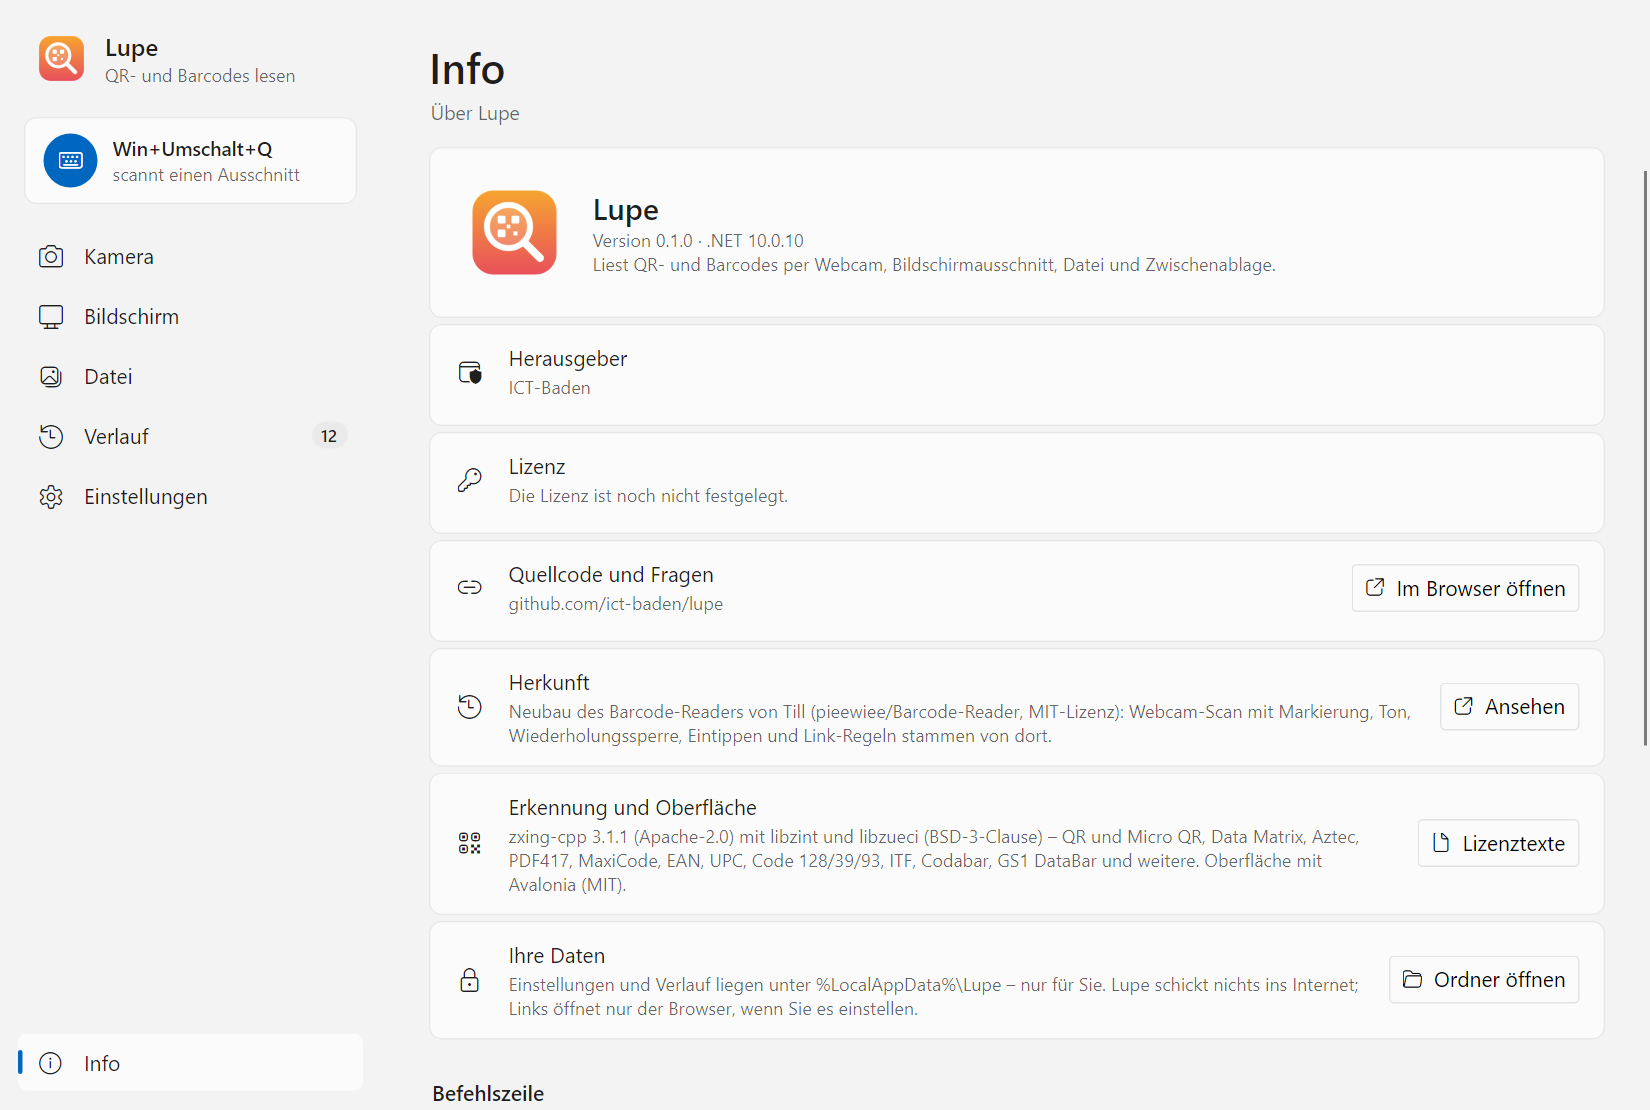
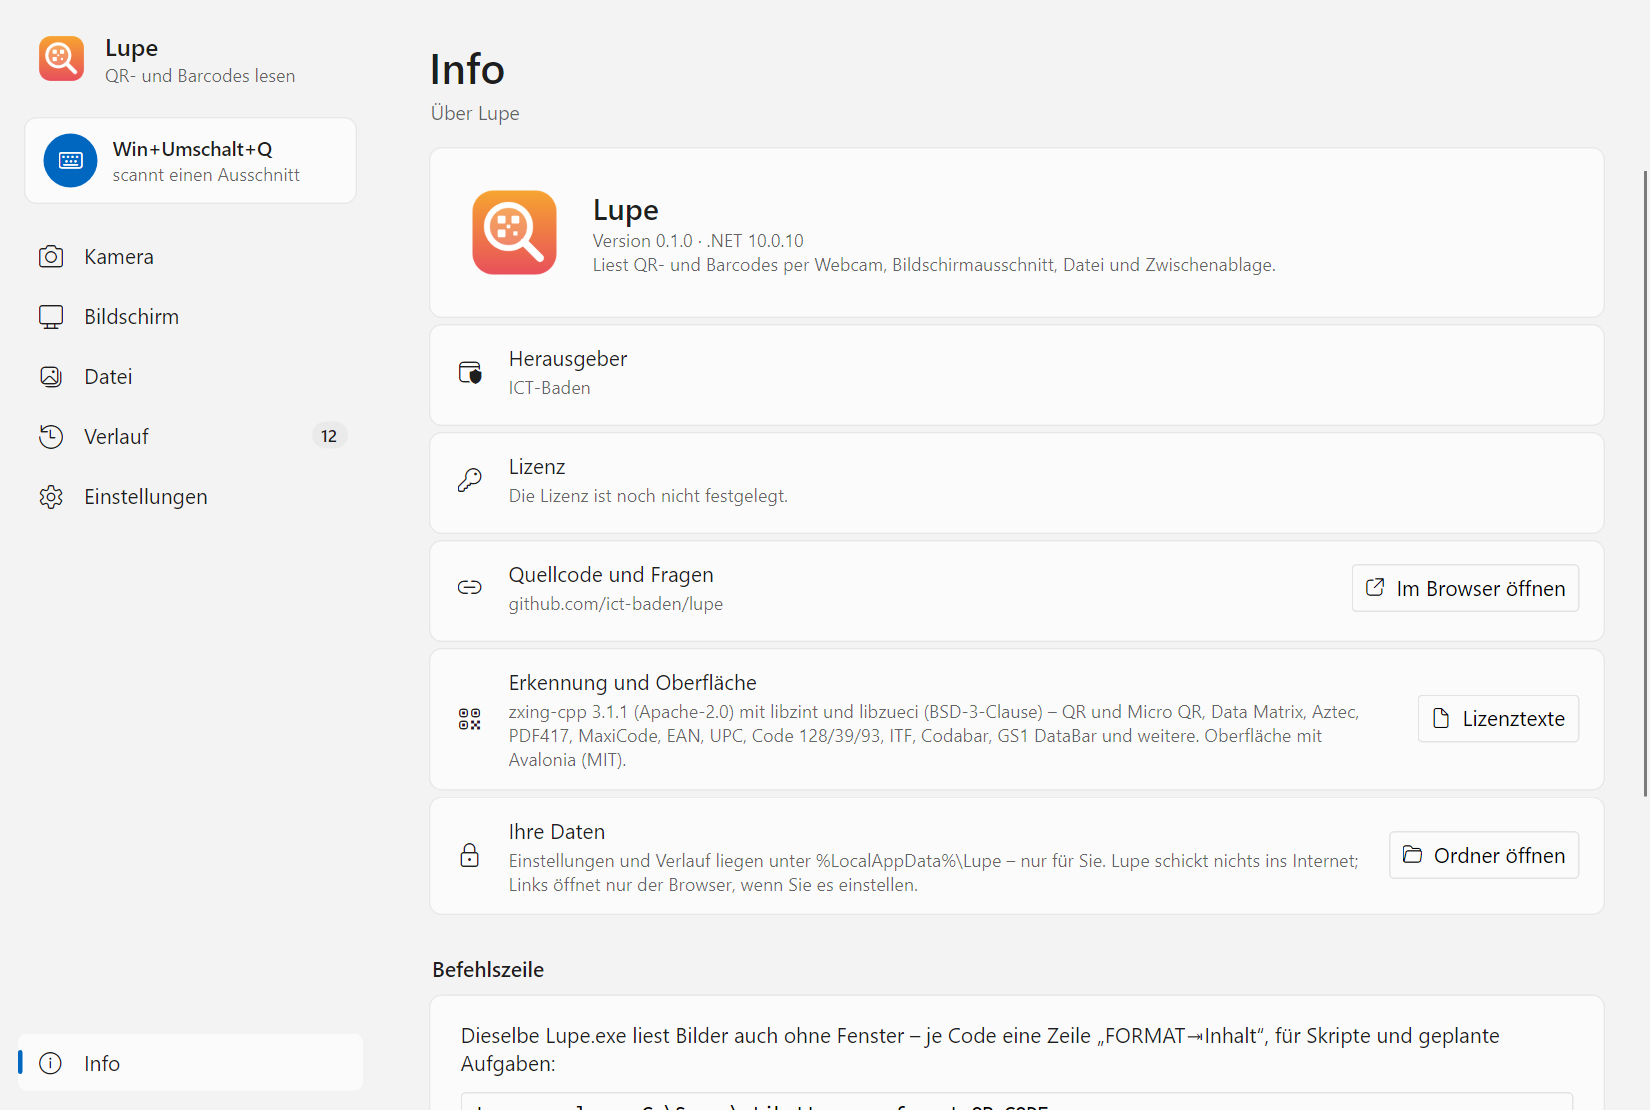
Keine Personennamen in der Oberfläche: Herkunft-Karte entfernt
Info-Seite ohne die Karte „Herkunft“ (samt Link und AppInfo.OriginUrl), die
Demo-Visitenkarte ohne Namen. Screenshots und usage.md angepasst.

Claude-Session: https://claude.ai/code/session_01AbvsB6bkL317KnprbYqPv7

diff --git a/src/Lupe/Demo/DemoData.cs b/src/Lupe/Demo/DemoData.cs
@@ -54,7 +54,7 @@ internal static class DemoData
             E(TimeSpan.FromMinutes(48), ScanSource.Zwischenablage, "QR_CODE", "WIFI:T:WPA;S:Gaeste;P:Willkommen-2026;;"),
             E(TimeSpan.FromMinutes(81), ScanSource.Kamera, "EAN_13", Ean, ResultActions.Kopieren | ResultActions.LinkOeffnen),
             E(TimeSpan.FromHours(3.2), ScanSource.Bildschirm, "AZTEC", "TICKET 7X9-KL2 WAGEN 8 PLATZ 64", ResultActions.Eintippen),
-            E(TimeSpan.FromHours(22), ScanSource.Bildschirm, "QR_CODE", "BEGIN:VCARD\nVERSION:3.0\nN:Muster;Anna\nORG:ICT-Baden\nTEL:+41 56 000 00 00\nEND:VCARD"),
+            E(TimeSpan.FromHours(22), ScanSource.Bildschirm, "QR_CODE", "BEGIN:VCARD\nVERSION:3.0\nORG:ICT-Baden\nTITLE:Empfang\nTEL:+41 56 000 00 00\nEND:VCARD"),
             E(TimeSpan.FromHours(26), ScanSource.Kamera, "PDF_417", "PAKET 1Z999AA10123456784"),
             E(TimeSpan.FromHours(50), ScanSource.Datei, "CODE_39", "INV-2026-0042"),
             E(TimeSpan.FromHours(75), ScanSource.Kamera, "QR_CODE", "https://example.com/termine?id=118", ResultActions.Kopieren | ResultActions.LinkOeffnen),

diff --git a/src/Lupe/UI/Pages/InfoPage.axaml.cs b/src/Lupe/UI/Pages/InfoPage.axaml.cs
@@ -6,7 +6,7 @@ using Lupe.Services;
 
 namespace Lupe.UI.Pages;
 
-/// <summary>Info: Version, Herausgeber, Lizenz (noch offen), Repo, Herkunft vom Barcode-Reader, Erkennung mit Lizenztexten, Daten, Befehlszeile, Tastatur.</summary>
+/// <summary>Info: Version, Herausgeber, Lizenz (noch offen), Repo, Erkennung und Oberfläche mit Lizenztexten, Daten, Befehlszeile, Tastatur.</summary>
 public partial class InfoPage : UserControl, IPage
 {
     private readonly AppState _state;
@@ -66,8 +66,6 @@ public partial class InfoPage : UserControl, IPage
     {
         if (ThirdPartyNotices.Open() is { } error) _state.Report(NoticeKind.Warning, error);
     }
-
-    private void OpenOrigin_Click(object? sender, RoutedEventArgs e) => Open(AppInfo.OriginUrl);
 
     private void Open(string url)
     {

diff --git a/src/Lupe/Labels.cs b/src/Lupe/Labels.cs
@@ -7,8 +7,6 @@ namespace Lupe;
 public static class AppInfo
 {
     public const string RepositoryUrl = "https://github.com/ict-baden/lupe";
-    /// <summary>Der Barcode-Reader, aus dem Lupe hervorgegangen ist (MIT-Lizenz).</summary>
-    public const string OriginUrl = "https://github.com/pieewiee/Barcode-Reader";
     public const string Publisher = "ICT-Baden";
 
     /// <summary>Version ohne Build-Anhang, z. B. „0.1.0“.</summary>

diff --git a/docs/usage.md b/docs/usage.md
@@ -162,7 +162,7 @@ Changes apply and are saved immediately – there is no *Save* button. The page 
   <img alt="Info page: Lupe version 0.1.0 and .NET version; publisher ICT-Baden; licence not yet determined; source code link with “Im Browser öffnen”; origin from Barcode-Reader with “Ansehen”; recognition with zxing-cpp and the button “Lizenztexte”; “Ihre Daten” with “Ordner öffnen”; the heading Befehlszeile." src="assets/screenshots/about-light.png" width="900">
 </picture>
 
-Version and .NET version, publisher, *Lizenz: Die Lizenz ist noch nicht festgelegt.* (the licence has not been decided yet), the source code link, the origin (*Herkunft*: rewrite of Barcode-Reader), the decoding library (*Erkennung*: zxing-cpp, Apache-2.0, with libzint and libzueci, BSD-3-Clause; *Lizenztexte* opens the licence texts of all bundled components), *Ihre Daten* (your data) with *Ordner öffnen* for `%LocalAppData%\Lupe`, a short introduction to the command line with the exit codes, and the keyboard shortcuts (*Tastatur*).
+Version and .NET version, publisher, *Lizenz: Die Lizenz ist noch nicht festgelegt.* (the licence has not been decided yet), the source code link, the decoding and UI libraries (*Erkennung und Oberfläche*: zxing-cpp, Apache-2.0, with libzint and libzueci, BSD-3-Clause; *Lizenztexte* opens the licence texts of all bundled components), *Ihre Daten* (your data) with *Ordner öffnen* for `%LocalAppData%\Lupe`, a short introduction to the command line with the exit codes, and the keyboard shortcuts (*Tastatur*).
 
 ## Workflows
 
